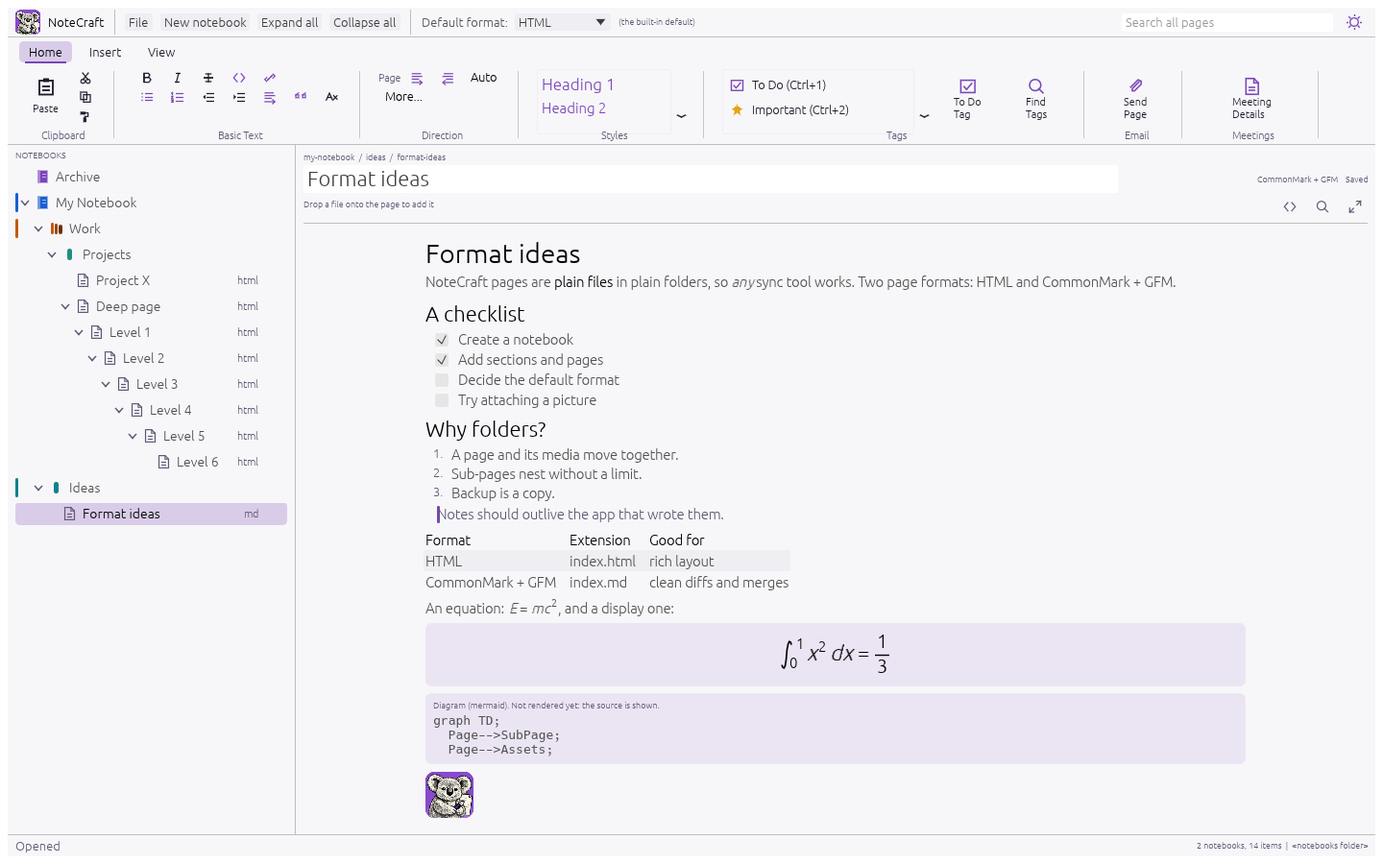
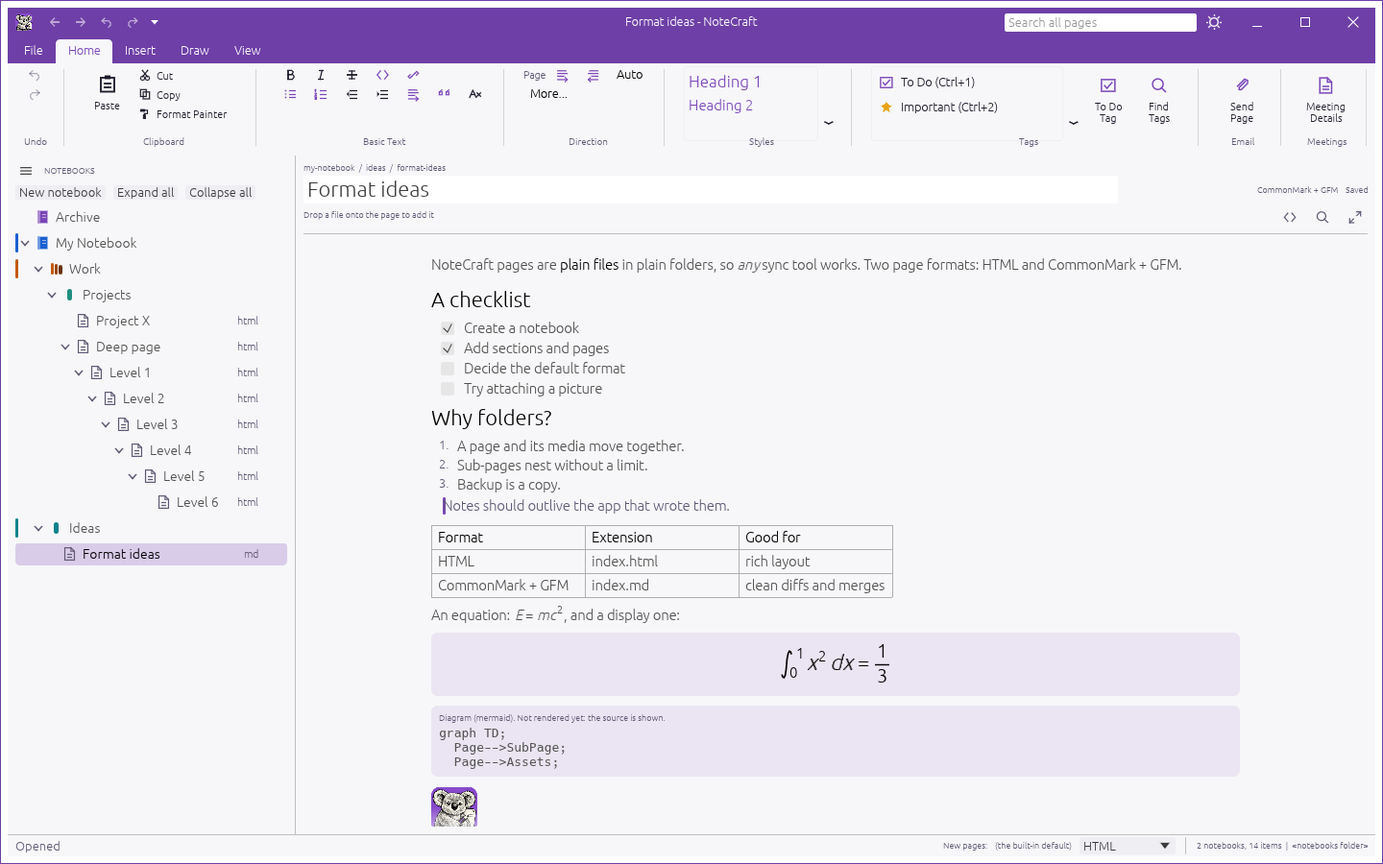
docs(screens): the README pictures show the title band, and the page source text is brought up to date
The ten pictures in docs/images are rebuilt with cargo xtask screenshots, so they show the coloured
title band and the tabs on it. The script's clicks (the Insert and Home tabs, the theme button,
the File tab) moved with the layout and are updated. The README's captions say what the pictures
now show: the hero names the band, the page source says the whole file.

The code view edits the whole page file, head included (a07aa08), and the how-to and the Welcome
page still said the head is grey and cannot be typed in. Both are corrected, in English and in
the twelve translations (machine translated, like the rest of those pages), and the notebook is
rebuilt.

diff --git a/docs/demo/scripts/content/hi/75-look-inside-a-page.md b/docs/demo/scripts/content/hi/75-look-inside-a-page.md
@@ -10,11 +10,11 @@ title: पेज के अंदर झाँकें
 
 बाईं ओर **इस पेज की फ़ाइलें** हैं: सबसे पहले पेज की अपनी फ़ाइल, `index.md`, फिर फ़ोल्डर में जो कुछ और है। जिस फ़ाइल को पेज पर कुछ भी इस्तेमाल नहीं करता, उस पर *पेज में इस्तेमाल नहीं हुई* लिखा होता है। दाईं ओर वह फ़ाइल है जिसे आपने चुना। यह वही पेज है जो आप पढ़ रहे हैं, इसलिए व्यूअर उसका अपना टेक्स्ट दिखाता है।
 
-पेज की फ़ाइल अपना **हेड** धूसर रंग में दिखाती है: पेज की आईडी, शीर्षक, क्रम और तारीख़ें। उसमें आप टाइप नहीं कर सकते, इसलिए हाथ से किया गया बदलाव पेज की आईडी नहीं बिगाड़ सकता। उसके नीचे **बॉडी** है, जिसे आप बदल सकते हैं। व्यू बंद करने के लिए वही बटन दोबारा दबाएँ, और पेज बॉडी में जो है उसी से फिर से बनाया जाता है।
+पेज की फ़ाइल पूरी दिखती है: उसका **हेड** (पेज की आईडी, शीर्षक, क्रम, तारीख़ें और सेटिंग) और उसके नीचे **बॉडी**। आप सब कुछ बदल सकते हैं। व्यू बंद करने के लिए वही बटन फिर दबाएँ, और पेज आपके लिखे के अनुसार फिर से बनता है।
 
 | फ़ाइल | व्यूअर क्या दिखाता है | क्या उसमें टाइप कर सकते हैं? |
 |---|---|---|
-| पेज की फ़ाइल, `index.md` या `index.html` | हेड, और बॉडी ठीक वैसी जैसी सहेजी गई | बॉडी में |
+| पेज की फ़ाइल, `index.md` या `index.html` | हेड, और बॉडी ठीक वैसी जैसी सहेजी गई | सब कुछ |
 | एक चित्र, `ink.svg` | SVG टेक्स्ट, क़लम की अपनी रीडिंग के साथ | हाँ, सावधानी से |
 | एक तस्वीर | तस्वीर | नहीं |
 | दूसरा टेक्स्ट | उसका टेक्स्ट | नहीं |

diff --git a/docs/demo/DemoNotebook/14-hi/how-to/look-inside-a-page/index.md b/docs/demo/DemoNotebook/14-hi/how-to/look-inside-a-page/index.md
@@ -13,11 +13,11 @@ tags: []
 
 बाईं ओर **इस पेज की फ़ाइलें** हैं: सबसे पहले पेज की अपनी फ़ाइल, `index.md`, फिर फ़ोल्डर में जो कुछ और है। जिस फ़ाइल को पेज पर कुछ भी इस्तेमाल नहीं करता, उस पर *पेज में इस्तेमाल नहीं हुई* लिखा होता है। दाईं ओर वह फ़ाइल है जिसे आपने चुना। यह वही पेज है जो आप पढ़ रहे हैं, इसलिए व्यूअर उसका अपना टेक्स्ट दिखाता है।
 
-पेज की फ़ाइल अपना **हेड** धूसर रंग में दिखाती है: पेज की आईडी, शीर्षक, क्रम और तारीख़ें। उसमें आप टाइप नहीं कर सकते, इसलिए हाथ से किया गया बदलाव पेज की आईडी नहीं बिगाड़ सकता। उसके नीचे **बॉडी** है, जिसे आप बदल सकते हैं। व्यू बंद करने के लिए वही बटन दोबारा दबाएँ, और पेज बॉडी में जो है उसी से फिर से बनाया जाता है।
+पेज की फ़ाइल पूरी दिखती है: उसका **हेड** (पेज की आईडी, शीर्षक, क्रम, तारीख़ें और सेटिंग) और उसके नीचे **बॉडी**। आप सब कुछ बदल सकते हैं। व्यू बंद करने के लिए वही बटन फिर दबाएँ, और पेज आपके लिखे के अनुसार फिर से बनता है।
 
 | फ़ाइल | व्यूअर क्या दिखाता है | क्या उसमें टाइप कर सकते हैं? |
 |---|---|---|
-| पेज की फ़ाइल, `index.md` या `index.html` | हेड, और बॉडी ठीक वैसी जैसी सहेजी गई | बॉडी में |
+| पेज की फ़ाइल, `index.md` या `index.html` | हेड, और बॉडी ठीक वैसी जैसी सहेजी गई | सब कुछ |
 | एक चित्र, `ink.svg` | SVG टेक्स्ट, क़लम की अपनी रीडिंग के साथ | हाँ, सावधानी से |
 | एक तस्वीर | तस्वीर | नहीं |
 | दूसरा टेक्स्ट | उसका टेक्स्ट | नहीं |

diff --git a/docs/how-to/look-inside-a-page.md b/docs/how-to/look-inside-a-page.md
@@ -4,7 +4,7 @@ A OneNote section is one binary file. Open it in a text editor and you see noise
 is a folder of plain files, and the code view shows you that folder, file by file, so you can see
 for yourself what your notes are made of.
 
-![The code view: the files of one page down the left, and the page file with its head and its body on the right](../images/page-source.png)
+![The code view: the files of one page down the left, and the whole page file, head and body, on the right](../images/page-source.png)
 
 ## Open it and close it
 
@@ -31,7 +31,7 @@ The viewer, on the right, shows the file you pick:
 
 | File | What you see | Can you type in it? |
 |---|---|---|
-| The page file | Its **head** in grey: the id, title, order and dates. Below it the **body**: the words, exactly as saved | The body, yes. The head is shown but cannot be typed in, so a hand edit cannot break the page's id |
+| The page file | The whole file as saved: the **head** (the id, title, order, dates and settings) and under it the **body**, the words | Yes, all of it, head included. The page is read again from it when you close the view |
 | A drawing, `ink.svg` | The SVG text. Each stroke is a path, with the pen's own readings beside it | Yes, with care: the pen's readings are in the file, and an edit that breaks them cannot be undone by the pen |
 | A picture | The picture | No |
 | Other text (`.txt`, `.json`, `.toml` and so on) | Its text | No |
@@ -54,7 +54,7 @@ tags: []
 ---
 ```
 
-- **The head is the page's own record:** its id, title, order, the times it was created and last
+- **The head is the page's own record, and you can edit it:** its id, title, order, the times it was created and last
   changed, and the settings that travel with it, such as a direction you chose for the page.
 - **Boxes are elements.** A page arranged in boxes has a `div` with `class="nc-box"` around each
   box's blocks, with its place in `data-x`, `data-y` and `data-width`. See
@@ -65,8 +65,9 @@ tags: []
 
 ## Fixing a page by hand
 
-Because the files are plain, the view is also how you debug a page. Change the body, and the page
-is drawn from what you wrote when you close the view. If the text holds markup the editor cannot
+Because the files are plain, the view is also how you debug a page. Change any line, in the head or the body,
+and the page is drawn from what you wrote when you close the view: a new title, a direction or a
+paper takes effect then, and what you typed is not overwritten by an autosave. If the text holds markup the editor cannot
 model, the page is shown but not written on, and says so. The code view is where you fix it.
 
 ## Not built yet

diff --git a/README.md b/README.md
@@ -24,7 +24,7 @@
 </p>
 
 <p align="center">
-  <img src="docs/images/hero.png" alt="NoteCraft with the Home tab of the ribbon open. On the left a tree shows two notebooks, a blue My Notebook with an orange Work section group and a teal Ideas section, nested sub-pages six levels deep. On the right the page Format ideas is written in its finished look: a heading, a checklist with ticked boxes, a numbered list, a quote, a table and an equation." width="100%">
+  <img src="docs/images/hero.png" alt="NoteCraft with a purple title band across the top, holding the Quick Access Toolbar, the page title and the tab names, and the Home tab of the ribbon open. On the left a tree shows two notebooks, a blue My Notebook with an orange Work section group and a teal Ideas section, nested sub-pages six levels deep. On the right the page Format ideas is written in its finished look: a heading, a checklist with ticked boxes, a numbered list, a quote, a table and an equation." width="100%">
   <br><sub><b>The sample notebooks.</b> The ribbon, coloured notebooks and sections, and a page written in the type it will be read in.</sub>
 </p>
 
@@ -62,7 +62,7 @@ Every picture below is NoteCraft itself, drawn off screen by its own test harnes
 <td width="50%" valign="top"><img src="docs/images/html-page.png" alt="An HTML page shown as it reads: a heading, bold and italic text, a link, a bulleted list, a to-do line, a table, a quote, an inline equation and a Mermaid diagram kept as source" width="100%"><p align="center"><sub><b>Both formats.</b> A page is HTML or CommonMark; the same editor, the same look, the file stays in its own format.</sub></p></td>
 </tr>
 <tr>
-<td colspan="2" valign="top"><img src="docs/images/page-source.png" alt="The page source view: a list of the page's files on the left, index.md and assets/koala.png, and on the right the page file with its head in grey, the id, title, order and dates, above its Markdown body" width="100%"><p align="center"><sub><b>Inside a page.</b> The files a page owns, and what is in each: the head in grey, the body below it.</sub></p></td>
+<td colspan="2" valign="top"><img src="docs/images/page-source.png" alt="The page source view: a list of the page's files on the left, index.md and assets/koala.png, and on the right the whole page file as text, its head with the id, title, order and dates above its Markdown body" width="100%"><p align="center"><sub><b>Inside a page.</b> The files a page owns, and what is in each: the whole page file, head and body, to read and to edit.</sub></p></td>
 </tr>
 </table>
 

diff --git a/docs/demo/scripts/content/ru/75-look-inside-a-page.md b/docs/demo/scripts/content/ru/75-look-inside-a-page.md
@@ -10,11 +10,11 @@ title: Заглянуть внутрь страницы
 
 Слева **Файлы этой страницы**: сначала файл самой страницы, `index.md`, потом всё остальное в папке. Файл, который ничто на странице не использует, помечен *не используется страницей*. Справа файл, который вы выбрали. Это страница, которую вы читаете, поэтому просмотрщик показывает её собственный текст.
 
-Файл страницы показывает свою **шапку** серым цветом: идентификатор, заголовок, порядок и даты страницы. В ней нельзя печатать, поэтому правка вручную не может испортить идентификатор страницы. Под ней **основной текст**, его можно править. Нажмите ту же кнопку ещё раз, чтобы закрыть режим, и страница будет нарисована заново из того, что в основном тексте.
+Файл страницы показан целиком: его **шапка** (идентификатор, название, порядок, даты и настройки страницы) и под ней **основной текст**. Править можно всё. Нажмите ту же кнопку ещё раз, чтобы закрыть вид, и страница будет нарисована заново по тому, что вы написали.
 
 | Файл | Что показывает просмотрщик | Можно ли в нём печатать? |
 |---|---|---|
-| Файл страницы, `index.md` или `index.html` | Шапку и основной текст в том виде, как он сохранён | Основной текст |
+| Файл страницы, `index.md` или `index.html` | Шапку и основной текст в том виде, как он сохранён | Всё |
 | Рисунок, `ink.svg` | Текст SVG вместе с собственными показаниями пера | Да, осторожно |
 | Картинка | Картинку | Нет |
 | Другой текст | Его текст | Нет |

diff --git a/docs/demo/DemoNotebook/15-ru/how-to/look-inside-a-page/index.md b/docs/demo/DemoNotebook/15-ru/how-to/look-inside-a-page/index.md
@@ -13,11 +13,11 @@ tags: []
 
 Слева **Файлы этой страницы**: сначала файл самой страницы, `index.md`, потом всё остальное в папке. Файл, который ничто на странице не использует, помечен *не используется страницей*. Справа файл, который вы выбрали. Это страница, которую вы читаете, поэтому просмотрщик показывает её собственный текст.
 
-Файл страницы показывает свою **шапку** серым цветом: идентификатор, заголовок, порядок и даты страницы. В ней нельзя печатать, поэтому правка вручную не может испортить идентификатор страницы. Под ней **основной текст**, его можно править. Нажмите ту же кнопку ещё раз, чтобы закрыть режим, и страница будет нарисована заново из того, что в основном тексте.
+Файл страницы показан целиком: его **шапка** (идентификатор, название, порядок, даты и настройки страницы) и под ней **основной текст**. Править можно всё. Нажмите ту же кнопку ещё раз, чтобы закрыть вид, и страница будет нарисована заново по тому, что вы написали.
 
 | Файл | Что показывает просмотрщик | Можно ли в нём печатать? |
 |---|---|---|
-| Файл страницы, `index.md` или `index.html` | Шапку и основной текст в том виде, как он сохранён | Основной текст |
+| Файл страницы, `index.md` или `index.html` | Шапку и основной текст в том виде, как он сохранён | Всё |
 | Рисунок, `ink.svg` | Текст SVG вместе с собственными показаниями пера | Да, осторожно |
 | Картинка | Картинку | Нет |
 | Другой текст | Его текст | Нет |

diff --git a/docs/demo/scripts/content/ur/75-look-inside-a-page.md b/docs/demo/scripts/content/ur/75-look-inside-a-page.md
@@ -10,11 +10,11 @@ title: صفحے کے اندر جھانکیں
 
 بائیں طرف **اس صفحے کی فائلیں** ہیں: سب سے پہلے صفحے کی اپنی فائل، `index.md`، پھر فولڈر میں باقی جو کچھ ہے۔ جس فائل کو صفحے پر کوئی چیز استعمال نہیں کرتی اس پر *صفحے میں استعمال نہیں ہوئی* لکھا ہوتا ہے۔ دائیں طرف وہ فائل ہے جو آپ نے چنی۔ یہ وہی صفحہ ہے جو آپ پڑھ رہے ہیں، اس لیے ناظر اس کا اپنا متن دکھاتا ہے۔
 
-صفحے کی فائل اپنا **ہیڈ** سرمئی رنگ میں دکھاتی ہے: صفحے کی شناخت، عنوان، ترتیب اور تاریخیں۔ اس میں آپ ٹائپ نہیں کر سکتے، اس لیے ہاتھ سے کی گئی تبدیلی صفحے کی شناخت خراب نہیں کر سکتی۔ اس کے نیچے **بدن** ہے، جسے آپ بدل سکتے ہیں۔ ویو بند کرنے کے لیے وہی بٹن دوبارہ دبائیں، اور صفحہ بدن میں جو کچھ ہے اسی سے دوبارہ بنایا جاتا ہے۔
+صفحے کی فائل پوری دکھائی جاتی ہے: اس کا **ہیڈ** (صفحے کی آئی ڈی، عنوان، ترتیب، تاریخیں اور سیٹنگز) اور اس کے نیچے **بدن**۔ آپ سب کچھ بدل سکتے ہیں۔ منظر بند کرنے کے لیے وہی بٹن دوبارہ دبائیں، اور صفحہ آپ کے لکھے کے مطابق دوبارہ بنتا ہے۔
 
 | فائل | ناظر کیا دکھاتا ہے | کیا اس میں ٹائپ کر سکتے ہیں؟ |
 |---|---|---|
-| صفحے کی فائل، `index.md` یا `index.html` | ہیڈ، اور بدن جیسا محفوظ ہوا تھا | بدن میں |
+| صفحے کی فائل، `index.md` یا `index.html` | ہیڈ، اور بدن جیسا محفوظ ہوا تھا | سب کچھ |
 | ایک ڈرائنگ، `ink.svg` | SVG متن، قلم کی اپنی ریڈنگز کے ساتھ | ہاں، احتیاط سے |
 | ایک تصویر | تصویر | نہیں |
 | دوسرا متن | اس کا متن | نہیں |

diff --git a/docs/demo/scripts/content/fa/75-look-inside-a-page.md b/docs/demo/scripts/content/fa/75-look-inside-a-page.md
@@ -10,11 +10,11 @@ title: نگاهی به درون یک صفحه
 
 در سمت چپ **فایلهای این صفحه** است: اول فایل خود صفحه، `index.md`، و بعد هر چیز دیگر در پوشه. فایلی که هیچچیز در صفحه از آن استفاده نمیکند با *در صفحه استفاده نشده* نشانهگذاری میشود. در سمت راست فایلی است که انتخاب کردهاید. این همان صفحهای است که میخوانید، پس نمایشگر متن خودش را نشان میدهد.
 
-فایل صفحه **سرایند** خود را به رنگ خاکستری نشان میدهد: شناسه، عنوان، ترتیب و تاریخهای صفحه. نمیتوانید در آن بنویسید، پس ویرایش دستی نمیتواند شناسهٔ صفحه را خراب کند. زیر آن **متن اصلی** است که میتوانید ویرایش کنید. با همان دکمه نما را ببندید تا صفحه دوباره از روی آنچه در متن اصلی هست کشیده شود.
+فایل صفحه کامل نشان داده میشود: **سرایند** آن (شناسه، عنوان، ترتیب، تاریخها و تنظیمات صفحه) و زیر آن **متن اصلی**. میتوانید همهچیز را ویرایش کنید. برای بستن نما دوباره همان دکمه را بزنید و صفحه از روی آنچه نوشتهاید دوباره کشیده میشود.
 
 | فایل | آنچه نمایشگر نشان میدهد | آیا میشود در آن نوشت؟ |
 |---|---|---|
-| فایل صفحه، `index.md` یا `index.html` | سرایند و متن اصلی همانطور که ذخیره شده | متن اصلی |
+| فایل صفحه، `index.md` یا `index.html` | سرایند و متن اصلی همانطور که ذخیره شده | همهچیز |
 | یک نقاشی، `ink.svg` | متن SVG همراه با دادههای خود قلم | بله، با احتیاط |
 | یک تصویر | تصویر | نه |
 | متن دیگر | متن آن | نه |

diff --git a/docs/demo/DemoNotebook/22-ur/how-to/look-inside-a-page/index.md b/docs/demo/DemoNotebook/22-ur/how-to/look-inside-a-page/index.md
@@ -14,11 +14,11 @@ tags: []
 
 بائیں طرف **اس صفحے کی فائلیں** ہیں: سب سے پہلے صفحے کی اپنی فائل، `index.md`، پھر فولڈر میں باقی جو کچھ ہے۔ جس فائل کو صفحے پر کوئی چیز استعمال نہیں کرتی اس پر *صفحے میں استعمال نہیں ہوئی* لکھا ہوتا ہے۔ دائیں طرف وہ فائل ہے جو آپ نے چنی۔ یہ وہی صفحہ ہے جو آپ پڑھ رہے ہیں، اس لیے ناظر اس کا اپنا متن دکھاتا ہے۔
 
-صفحے کی فائل اپنا **ہیڈ** سرمئی رنگ میں دکھاتی ہے: صفحے کی شناخت، عنوان، ترتیب اور تاریخیں۔ اس میں آپ ٹائپ نہیں کر سکتے، اس لیے ہاتھ سے کی گئی تبدیلی صفحے کی شناخت خراب نہیں کر سکتی۔ اس کے نیچے **بدن** ہے، جسے آپ بدل سکتے ہیں۔ ویو بند کرنے کے لیے وہی بٹن دوبارہ دبائیں، اور صفحہ بدن میں جو کچھ ہے اسی سے دوبارہ بنایا جاتا ہے۔
+صفحے کی فائل پوری دکھائی جاتی ہے: اس کا **ہیڈ** (صفحے کی آئی ڈی، عنوان، ترتیب، تاریخیں اور سیٹنگز) اور اس کے نیچے **بدن**۔ آپ سب کچھ بدل سکتے ہیں۔ منظر بند کرنے کے لیے وہی بٹن دوبارہ دبائیں، اور صفحہ آپ کے لکھے کے مطابق دوبارہ بنتا ہے۔
 
 | فائل | ناظر کیا دکھاتا ہے | کیا اس میں ٹائپ کر سکتے ہیں؟ |
 |---|---|---|
-| صفحے کی فائل، `index.md` یا `index.html` | ہیڈ، اور بدن جیسا محفوظ ہوا تھا | بدن میں |
+| صفحے کی فائل، `index.md` یا `index.html` | ہیڈ، اور بدن جیسا محفوظ ہوا تھا | سب کچھ |
 | ایک ڈرائنگ، `ink.svg` | SVG متن، قلم کی اپنی ریڈنگز کے ساتھ | ہاں، احتیاط سے |
 | ایک تصویر | تصویر | نہیں |
 | دوسرا متن | اس کا متن | نہیں |

diff --git a/docs/demo/DemoNotebook/21-fa/how-to/look-inside-a-page/index.md b/docs/demo/DemoNotebook/21-fa/how-to/look-inside-a-page/index.md
@@ -14,11 +14,11 @@ tags: []
 
 در سمت چپ **فایلهای این صفحه** است: اول فایل خود صفحه، `index.md`، و بعد هر چیز دیگر در پوشه. فایلی که هیچچیز در صفحه از آن استفاده نمیکند با *در صفحه استفاده نشده* نشانهگذاری میشود. در سمت راست فایلی است که انتخاب کردهاید. این همان صفحهای است که میخوانید، پس نمایشگر متن خودش را نشان میدهد.
 
-فایل صفحه **سرایند** خود را به رنگ خاکستری نشان میدهد: شناسه، عنوان، ترتیب و تاریخهای صفحه. نمیتوانید در آن بنویسید، پس ویرایش دستی نمیتواند شناسهٔ صفحه را خراب کند. زیر آن **متن اصلی** است که میتوانید ویرایش کنید. با همان دکمه نما را ببندید تا صفحه دوباره از روی آنچه در متن اصلی هست کشیده شود.
+فایل صفحه کامل نشان داده میشود: **سرایند** آن (شناسه، عنوان، ترتیب، تاریخها و تنظیمات صفحه) و زیر آن **متن اصلی**. میتوانید همهچیز را ویرایش کنید. برای بستن نما دوباره همان دکمه را بزنید و صفحه از روی آنچه نوشتهاید دوباره کشیده میشود.
 
 | فایل | آنچه نمایشگر نشان میدهد | آیا میشود در آن نوشت؟ |
 |---|---|---|
-| فایل صفحه، `index.md` یا `index.html` | سرایند و متن اصلی همانطور که ذخیره شده | متن اصلی |
+| فایل صفحه، `index.md` یا `index.html` | سرایند و متن اصلی همانطور که ذخیره شده | همهچیز |
 | یک نقاشی، `ink.svg` | متن SVG همراه با دادههای خود قلم | بله، با احتیاط |
 | یک تصویر | تصویر | نه |
 | متن دیگر | متن آن | نه |

diff --git a/docs/demo/scripts/content/he/75-look-inside-a-page.md b/docs/demo/scripts/content/he/75-look-inside-a-page.md
@@ -10,11 +10,11 @@ title: להציץ לתוך עמוד
 
 בצד שמאל **קבצי העמוד הזה**: קודם הקובץ של העמוד עצמו, `index.md`, ואחריו כל דבר אחר בתיקייה. קובץ שאין בעמוד שום דבר שמשתמש בו מסומן *לא בשימוש בעמוד*. בצד ימין נמצא הקובץ שבחרתם. זה העמוד שאתם קוראים, ולכן הצופה מציג את הטקסט שלו עצמו.
 
-קובץ העמוד מציג את **הכותרת העליונה** שלו באפור: המזהה, הכותרת, הסדר והתאריכים של העמוד. אי אפשר להקליד בה, ולכן עריכה ידנית לא יכולה לקלקל את מזהה העמוד. מתחתיה נמצא **הגוף**, שאפשר לערוך. לחצו שוב על אותו כפתור כדי לסגור את התצוגה, והעמוד יצויר מחדש ממה שיש בגוף.
+קובץ העמוד מוצג בשלמותו: **הכותרת העליונה** שלו (המזהה, הכותרת, הסדר, התאריכים וההגדרות של העמוד) ומתחתיה **הגוף**. אפשר לערוך הכול. לחצו שוב על אותו כפתור כדי לסגור את התצוגה, והעמוד יצויר מחדש לפי מה שכתבתם.
 
 | קובץ | מה הצופה מציג | אפשר להקליד בו? |
 |---|---|---|
-| קובץ העמוד, `index.md` או `index.html` | את הכותרת העליונה ואת הגוף בדיוק כפי שנשמר | את הגוף |
+| קובץ העמוד, `index.md` או `index.html` | את הכותרת העליונה ואת הגוף בדיוק כפי שנשמר | הכול |
 | ציור, `ink.svg` | את טקסט ה-SVG עם קריאות העט עצמו | כן, בזהירות |
 | תמונה | התמונה | לא |
 | טקסט אחר | הטקסט שלו | לא |

diff --git a/docs/demo/DemoNotebook/23-he/how-to/look-inside-a-page/index.md b/docs/demo/DemoNotebook/23-he/how-to/look-inside-a-page/index.md
@@ -14,11 +14,11 @@ tags: []
 
 בצד שמאל **קבצי העמוד הזה**: קודם הקובץ של העמוד עצמו, `index.md`, ואחריו כל דבר אחר בתיקייה. קובץ שאין בעמוד שום דבר שמשתמש בו מסומן *לא בשימוש בעמוד*. בצד ימין נמצא הקובץ שבחרתם. זה העמוד שאתם קוראים, ולכן הצופה מציג את הטקסט שלו עצמו.
 
-קובץ העמוד מציג את **הכותרת העליונה** שלו באפור: המזהה, הכותרת, הסדר והתאריכים של העמוד. אי אפשר להקליד בה, ולכן עריכה ידנית לא יכולה לקלקל את מזהה העמוד. מתחתיה נמצא **הגוף**, שאפשר לערוך. לחצו שוב על אותו כפתור כדי לסגור את התצוגה, והעמוד יצויר מחדש ממה שיש בגוף.
+קובץ העמוד מוצג בשלמותו: **הכותרת העליונה** שלו (המזהה, הכותרת, הסדר, התאריכים וההגדרות של העמוד) ומתחתיה **הגוף**. אפשר לערוך הכול. לחצו שוב על אותו כפתור כדי לסגור את התצוגה, והעמוד יצויר מחדש לפי מה שכתבתם.
 
 | קובץ | מה הצופה מציג | אפשר להקליד בו? |
 |---|---|---|
-| קובץ העמוד, `index.md` או `index.html` | את הכותרת העליונה ואת הגוף בדיוק כפי שנשמר | את הגוף |
+| קובץ העמוד, `index.md` או `index.html` | את הכותרת העליונה ואת הגוף בדיוק כפי שנשמר | הכול |
 | ציור, `ink.svg` | את טקסט ה-SVG עם קריאות העט עצמו | כן, בזהירות |
 | תמונה | התמונה | לא |
 | טקסט אחר | הטקסט שלו | לא |
